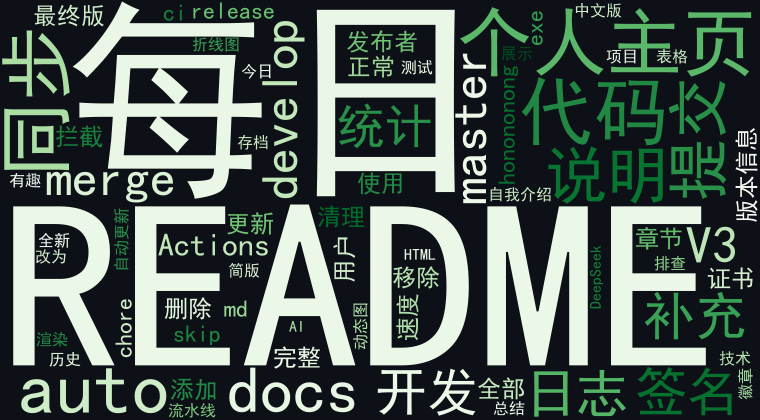
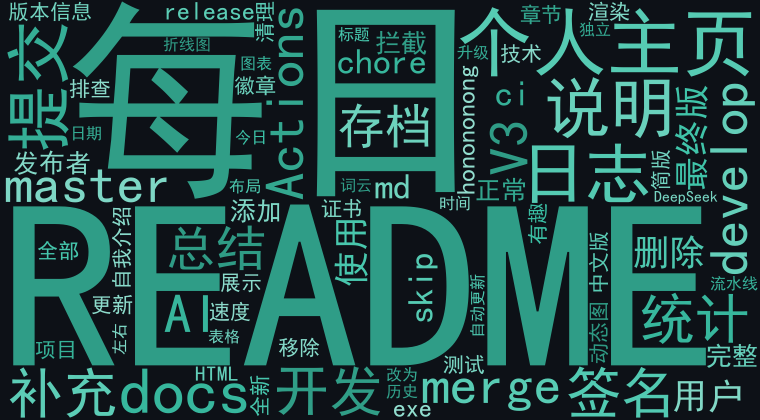
日志主题色: AI每日判断+全篇统一(标题/词云/饼图同色系)

diff --git a/.github/scripts/gen_log.py b/.github/scripts/gen_log.py
@@ -1,5 +1,5 @@
-"""生成每日开发日志v2: 日期标题 + AI总结(100字) + 词云(左) + 时间饼图(右) + 历史存档"""
-import json, math, os, urllib.request
+# 每日开发日志v3: AI判断主题色(全篇统一) + 日期标题 + 100字总结 + 词云&饼图
+import json, math, os, re, urllib.request, colorsys
 from datetime import date, datetime
 
 GH_TOKEN = os.environ.get("GH_TOKEN", "")
@@ -7,16 +7,28 @@ DS_TOKEN = os.environ.get("DEEPSEEK_TOKEN", "")
 AUTHOR = os.environ.get("GH_AUTHOR", "hong2301")
 FONT = os.environ.get("FONT_PATH", "")
 
+# 低饱和易读色板(AI 从中选)
+PALETTE = {
+    "blue":   "#58a6ff",
+    "green":  "#3fb950",
+    "purple": "#bc8cff",
+    "orange": "#d29922",
+    "cyan":   "#39c5cf",
+    "pink":   "#f778ba",
+    "teal":   "#4ec9b0",
+    "yellow": "#e3b341",
+}
+
 def gh_api(url):
     req = urllib.request.Request(url, headers={
-        "Authorization": f"Bearer {GH_TOKEN}",
+        "Authorization": "Bearer " + GH_TOKEN,
         "Accept": "application/vnd.github+json",
         "User-Agent": "log-gen",
     })
     with urllib.request.urlopen(req, timeout=30) as r:
         return json.load(r)
 
-def ds_ai(text, max_tokens=400):
+def ds_ai(text, max_tokens=500):
     body = json.dumps({
         "model": "deepseek-chat",
         "messages": [{"role": "user", "content": text}],
@@ -25,7 +37,7 @@ def ds_ai(text, max_tokens=400):
     }).encode()
     req = urllib.request.Request("https://api.deepseek.com/chat/completions",
         data=body, headers={
-            "Authorization": f"Bearer {DS_TOKEN}",
+            "Authorization": "Bearer " + DS_TOKEN,
             "Content-Type": "application/json",
         })
     with urllib.request.urlopen(req, timeout=60) as r:
@@ -37,8 +49,8 @@ def today_commits():
     commits = []
     page = 1
     while True:
-        url = (f"https://api.github.com/search/commits?q=author:{AUTHOR}"
-               f"+committer-date:>={since}&per_page=100&page={page}")
+        url = ("https://api.github.com/search/commits?q=author:" + AUTHOR +
+               "+committer-date:>=" + since + "&per_page=100&page=" + str(page))
         data = gh_api(url)
         items = data.get("items", [])
         for it in items:
@@ -47,7 +59,6 @@ def today_commits():
                 "time": (c.get("committer") or {}).get("date", "")[11:19],
                 "repo": ((it.get("repository") or {}).get("full_name", "")).replace("hong2301/", ""),
                 "msg": (c.get("message") or "").split("\n")[0],
-                "sha": it.get("sha", "")[:7],
             })
         if len(items) < 100 or page >= 10:
             break
@@ -55,13 +66,65 @@ def today_commits():
     commits.sort(key=lambda x: x["time"])
     return commits
 
-def build_wordcloud(commits, out):
+def ai_log_and_color(commits):
+    """AI 生成日志文本 + 判断主题色(返回 (text, color_name))"""
+    desc = "\n".join("- " + c["time"] + " [" + c["repo"] + "] " + c["msg"] for c in commits)
+    prompt = (
+        "以下是我今天(GitHub: hong2301)的所有代码提交记录:\n" + desc +
+        "\n\n请完成两件事:\n"
+        "1. 写一篇约100字的中文今日开发日志, 第一人称, 像程序员日记, "
+        "自然叙述今天做了什么、解决了什么问题, 不要列清单, 不要说'今天提交了N次代码'这类废话\n"
+        "2. 根据今天的工作内容与状态, 从以下8个主题色中选一个最贴合的颜色"
+        "(例如: 大量写码忙碌→orange/yellow, 平静收尾→blue/green, 有成就热情→pink/purple, 创新探索→cyan/teal):\n"
+        "blue, green, purple, orange, cyan, pink, teal, yellow\n"
+        "严格只输出JSON, 格式: {\"text\": \"日志内容\", \"color\": \"颜色名\"}"
+    )
+    raw = ds_ai(prompt)
+    m = re.search(r"\{.*\}", raw, re.S)
+    if m:
+        try:
+            d = json.loads(m.group(0))
+            text = str(d.get("text", "")).strip()
+            color = str(d.get("color", "blue")).strip().lower()
+            if color not in PALETTE:
+                color = "blue"
+            return text, color
+        except Exception:
+            pass
+    return raw.strip(), "blue"
+
+def shades(hexc, n):
+    """主色生成 n 个同色系明度变体(低饱和易读)"""
+    r = int(hexc[1:3], 16); g = int(hexc[3:5], 16); b = int(hexc[5:7], 16)
+    h, l, s = colorsys.rgb_to_hls(r / 255, g / 255, b / 255)
+    out = []
+    for i in range(n):
+        ll = max(0.25, min(0.85, l + (i - (n - 1) / 2) * 0.09))
+        ss = max(0.35, min(0.75, s))
+        rr, gg, bb = colorsys.hls_to_rgb(h, ll, ss)
+        out.append("#%02x%02x%02x" % (int(rr * 255), int(gg * 255), int(bb * 255)))
+    return out
+
+def build_wordcloud(commits, out, hexc):
     from wordcloud import WordCloud
     import jieba
     text = " ".join(c["msg"] for c in commits)
     seg = " ".join(w for w in jieba.cut(text) if len(w.strip()) > 1)
+    base = (int(hexc[1:3], 16), int(hexc[3:5], 16), int(hexc[5:7], 16))
+    h, l, s = colorsys.rgb_to_hls(*(c / 255 for c in base))
+
+    def color_func(word, font_size, position, orientation, random_state=None, **kw):
+        try:
+            rv = random_state.rand()      # numpy RandomState
+        except AttributeError:
+            rv = random_state.random()    # python random.Random
+        ll = max(0.3, min(0.85, l + (rv - 0.5) * 0.35))
+        ss = max(0.4, min(0.75, s))
+        r, g, b = colorsys.hls_to_rgb(h, ll, ss)
+        return int(r * 255), int(g * 255), int(b * 255)
+
     wc = WordCloud(font_path=FONT, width=760, height=420,
-                   background_color="#0d1117", colormap="Greens",
+                   background_color="#0d1117", color_func=color_func,
                    max_words=80, random_state=42, collocations=False).generate(seg)
     wc.to_file(out)
 
@@ -69,18 +132,18 @@ def _polar(cx, cy, r, deg):
     rad = math.radians(deg)
     return cx + r * math.cos(rad), cy + r * math.sin(rad)
 
-def build_pie_svg(commits):
+def build_pie_svg(commits, hexc):
     buckets = [("0-3点", 0), ("4-7点", 0), ("8-11点", 0),
                ("12-15点", 0), ("16-19点", 0), ("20-23点", 0)]
     for c in commits:
-        h = int(c["time"][:2])
-        buckets[min(h // 4, 5)] = (buckets[min(h // 4, 5)][0],
-                                   buckets[min(h // 4, 5)][1] + 1)
+        hh = int(c["time"][:2])
+        b = min(hh // 4, 5)
+        buckets[b] = (buckets[b][0], buckets[b][1] + 1)
     total = len(commits) or 1
     W, H, cx, cy, r, r2 = 520, 420, 185, 210, 120, 66
-    colors = ["#2ea043", "#3fb950", "#56d364", "#7ee787", "#aff5b4", "#d9ffdd"]
-    s = [f'<svg xmlns="http://www.w3.org/2000/svg" width="{W}" height="{H}" viewBox="0 0 {W} {H}">',
-         f'<rect width="100%" height="100%" fill="#0d1117"/>']
+    colors = shades(hexc, len(buckets))
+    s = ['<svg xmlns="http://www.w3.org/2000/svg" width="%d" height="%d" viewBox="0 0 %d %d">' % (W, H, W, H),
+         '<rect width="100%%" height="100%%" fill="#0d1117"/>']
     start = -90
     for i, (name, v) in enumerate(buckets):
         frac = v / total
@@ -91,26 +154,30 @@ def build_pie_svg(commits):
             x2, y2 = _polar(cx, cy, r2, a1)
             x3, y3 = _polar(cx, cy, r2, a0)
             large = 1 if (a1 - a0) > 180 else 0
-            d = (f"M {x0:.1f} {y0:.1f} A {r} {r} 0 {large} 1 {x1:.1f} {y1:.1f} "
-                 f"L {x2:.1f} {y2:.1f} A {r2} {r2} 0 {large} 0 {x3:.1f} {y3:.1f} Z")
-            s.append(f'<path d="{d}" fill="{colors[i % len(colors)]}"/>')
+            d = ("M %.1f %.1f A %d %d 0 %d 1 %.1f %.1f L %.1f %.1f A %d %d 0 %d 0 %.1f %.1f Z"
+                 % (x0, y0, r, r, large, x1, y1, x2, y2, r2, r2, large, x3, y3))
+            s.append('<path d="' + d + '" fill="' + colors[i] + '"/>')
         start = a1
-    s.append(f'<text x="{cx}" y="{cy-6}" fill="#e6edf3" font-size="22" text-anchor="middle" font-family="sans-serif">共 {total}</text>')
-    s.append(f'<text x="{cx}" y="{cy+18}" fill="#8b949e" font-size="13" text-anchor="middle" font-family="sans-serif">次提交</text>')
+    s.append('<text x="%d" y="%d" fill="#e6edf3" font-size="22" text-anchor="middle" font-family="sans-serif">共 %d</text>'
+             % (cx, cy - 6, total))
+    s.append('<text x="%d" y="%d" fill="#8b949e" font-size="13" text-anchor="middle" font-family="sans-serif">次提交</text>'
+             % (cx, cy + 18))
     ly = 36
     for i, (name, v) in enumerate(buckets):
         pct = v / total * 100
-        s.append(f'<rect x="{330}" y="{ly}" width="14" height="14" rx="3" fill="{colors[i % len(colors)]}"/>')
-        s.append(f'<text x="{352}" y="{ly+12}" fill="#c9d1d9" font-size="13" font-family="sans-serif">{name}  {v} ({pct:.0f}%)</text>')
+        s.append('<rect x="330" y="%d" width="14" height="14" rx="3" fill="%s"/>' % (ly, colors[i]))
+        s.append('<text x="352" y="%d" fill="#c9d1d9" font-size="13" font-family="sans-serif">%s  %d (%.0f%%)</text>'
+                 % (ly + 12, name, v, pct))
         ly += 30
     s.append('</svg>')
     return "".join(s)
 
 def cn_date(d):
-    return f"{d.year}年{d.month}月{d.day}日"
+    return "%d年%d月%d日" % (d.year, d.month, d.day)
 
-def build_log(date_str, commits, ai_text, img_line):
-    lines = [f"# {cn_date(date.fromisoformat(date_str))}日志", "", ""]
+def build_log(date_str, commits, ai_text, hexc, img_line):
+    title = '<h1 style="color:%s">%s日志</h1>' % (hexc, cn_date(date.fromisoformat(date_str)))
+    lines = [title, "", ""]
     if ai_text:
         lines.append(ai_text.strip())
     else:
@@ -118,49 +185,45 @@ def build_log(date_str, commits, ai_text, img_line):
     lines.append("")
     lines.append(img_line)
     lines.append("")
-    lines.append(f"📚 [查看历史日志](./logs/)")
+    lines.append("📚 [查看历史日志](./logs/)")
     return "\n".join(lines)
 
 if __name__ == "__main__":
     root = os.path.dirname(os.path.dirname(os.path.dirname(os.path.abspath(__file__))))
     today = date.today().isoformat()
     commits = today_commits()
-    ai_text = None
+    ai_text, color_name = None, "blue"
     if commits and DS_TOKEN:
         try:
-            desc = "\n".join(f"- {c['time']} [{c['repo']}] {c['msg']}" for c in commits)
-            ai_text = ds_ai(
-                "以下是我今天(GitHub: hong2301)的所有代码提交记录:\n" + desc +
-                "\n\n请用中文写一篇约100字的今日开发日志, 第一人称, 像程序员日记, "
-                "自然叙述今天做了什么、解决了什么问题, 不要列清单, 不要说'今天提交了N次代码'这类废话")
-            print("AI:", ai_text)
+            ai_text, color_name = ai_log_and_color(commits)
+            print("AI:", ai_text[:60], "| 主题色:", color_name, PALETTE[color_name])
         except Exception as e:
             print("AI失败:", e)
-    # 词云 + 饼图
+    hexc = PALETTE.get(color_name, "#58a6ff")
+    img_now = ('<img src="wordcloud.png" width="49%" alt="提交词云"/> '
+               '<img src="pie.svg" width="49%" alt="提交时间分布"/>')
     if commits:
         try:
-            build_wordcloud(commits, os.path.join(root, "wordcloud.png"))
+            build_wordcloud(commits, os.path.join(root, "wordcloud.png"), hexc)
             print("词云OK")
         except Exception as e:
             print("词云失败:", e)
         with open(os.path.join(root, "pie.svg"), "w", encoding="utf-8") as f:
-            f.write(build_pie_svg(commits))
+            f.write(build_pie_svg(commits, hexc))
         print("饼图OK")
-    # README(引用根目录图) + 存档(复制按日期命名的图)
-    import shutil
-    img_now = '<img src="wordcloud.png" width="49%" alt="提交词云"/> <img src="pie.svg" width="49%" alt="提交时间分布"/>'
-    content = build_log(today, commits, ai_text, img_now)
+    content = build_log(today, commits, ai_text, hexc, img_now)
     with open(os.path.join(root, "README.md"), "w", encoding="utf-8") as f:
         f.write(content)
     os.makedirs(os.path.join(root, "logs"), exist_ok=True)
     if commits:
-        wc_a, pie_a = f"{today}-wordcloud.png", f"{today}-pie.svg"
+        import shutil
+        wc_a, pie_a = today + "-wordcloud.png", today + "-pie.svg"
         shutil.copy(os.path.join(root, "wordcloud.png"), os.path.join(root, "logs", wc_a))
         shutil.copy(os.path.join(root, "pie.svg"), os.path.join(root, "logs", pie_a))
-        img_arch = (f'<img src="{wc_a}" width="49%" alt="提交词云"/> '
-                    f'<img src="{pie_a}" width="49%" alt="提交时间分布"/>')
+        img_arch = ('<img src="%s" width="49%%" alt="提交词云"/> '
+                    '<img src="%s" width="49%%" alt="提交时间分布"/>' % (wc_a, pie_a))
     else:
         img_arch = img_now
     with open(os.path.join(root, "logs", today + ".md"), "w", encoding="utf-8") as f:
-        f.write(build_log(today, commits, ai_text, img_arch))
-    print(f"完成: {len(commits)} commits")
+        f.write(build_log(today, commits, ai_text, hexc, img_arch))
+    print("完成: %d commits, 主题色 %s" % (len(commits), color_name))

diff --git a/logs/2026-08-17.md b/logs/2026-08-17.md
@@ -1,7 +1,7 @@
-# 2026年8月17日日志
+<h1 style="color:#4ec9b0">2026年8月17日日志</h1>
 
 
-今天把微信文章采集器推到了 V3.0.1，补全了 exe 的版本信息，顺手把 README 整理干净，还给发布者签名加了说明，免得用户看到“未知发布者”心里发毛。下午折腾个人主页，换了三版，最后用 DeepSeek 生成每日提交折线图和 AI 总结，总算有内味儿了。另外同步了几个内部仓库，没出幺蛾子，还算顺的一天。
+把wechat-article-collector打磨到V3.0.1，给exe补全了版本信息，又花了些心思把README从用户视角重写干净，删掉冗余章节。下午一头扎进个人主页，折腾出带每日提交折线图的版本，后来索性升级成自动日志系统，接上DeepSeek做AI总结，配上词云和时间饼图，看着提交数据变成可视化图表，还挺有成就感。
 
 <img src="2026-08-17-wordcloud.png" width="49%" alt="提交词云"/> <img src="2026-08-17-pie.svg" width="49%" alt="提交时间分布"/>
 

diff --git a/README.md b/README.md
@@ -1,7 +1,7 @@
-# 2026年8月17日日志
+<h1 style="color:#4ec9b0">2026年8月17日日志</h1>
 
 
-今天把微信文章采集器推到了 V3.0.1，补全了 exe 的版本信息，顺手把 README 整理干净，还给发布者签名加了说明，免得用户看到“未知发布者”心里发毛。下午折腾个人主页，换了三版，最后用 DeepSeek 生成每日提交折线图和 AI 总结，总算有内味儿了。另外同步了几个内部仓库，没出幺蛾子，还算顺的一天。
+把wechat-article-collector打磨到V3.0.1，给exe补全了版本信息，又花了些心思把README从用户视角重写干净，删掉冗余章节。下午一头扎进个人主页，折腾出带每日提交折线图的版本，后来索性升级成自动日志系统，接上DeepSeek做AI总结，配上词云和时间饼图，看着提交数据变成可视化图表，还挺有成就感。
 
 <img src="wordcloud.png" width="49%" alt="提交词云"/> <img src="pie.svg" width="49%" alt="提交时间分布"/>
 
